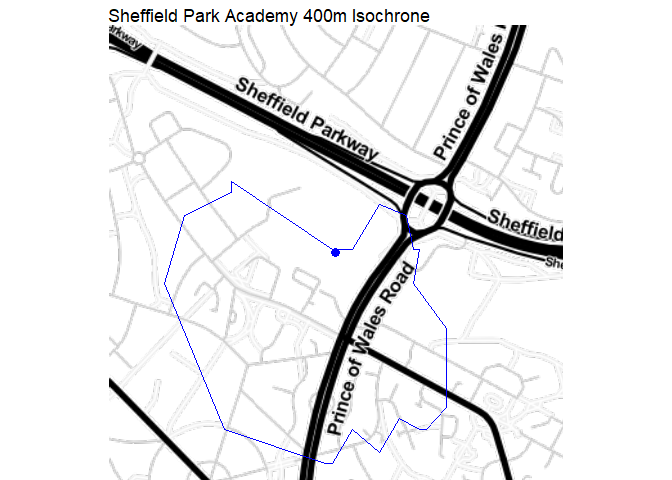
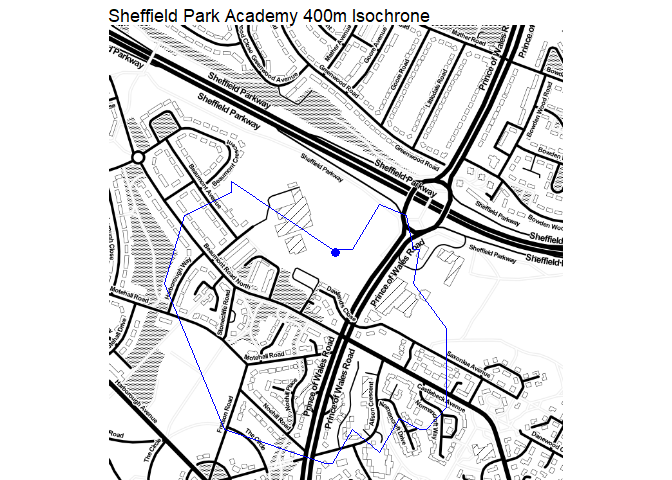
more detailed basemap

Changed region(s): [[0.1562, 0.0312, 0.8438, 1.0], [0.1562, 0.9688, 0.1875, 1.0]]

diff --git a/index.md b/index.md
@@ -53,8 +53,9 @@ used below to get the data from the Council’s web GIS.
 
 ``` r
 # URL for secondary schools from the Council's Portal (without a token!)
-secondary_schools_url  <- str_c("https://sheffieldcitycouncil.cloud.esriuk.com",
-                               "/server/rest/services/AGOL/Education/FeatureServer/3")
+secondary_schools_url  <- str_c(
+  "https://sheffieldcitycouncil.cloud.esriuk.com",
+  "/server/rest/services/AGOL/Education/FeatureServer/3")
 
 # Get secondary schools as simple features with WSG84 coordinates
 sf_secondary_schools <- arc.open(secondary_schools_url) %>% 
@@ -63,9 +64,9 @@ sf_secondary_schools <- arc.open(secondary_schools_url) %>%
   st_transform(crs = 4326)
 
 # URL for the city boundary from the Council's AGOL Open Data
-city_boundary_url  <- str_c("https://utility.arcgis.com/usrsvcs/servers/",
-                            "4cdfd020c6f54581a3065c734535adab/rest/services/",
-                            "AGOL/OpenData/MapServer/11")
+city_boundary_url  <- str_c(
+  "https://utility.arcgis.com/usrsvcs/servers/4cdfd020c6f54581a3065c734535adab",
+  "/rest/services/AGOL/OpenData/MapServer/11")
 
 # Get the city boundary as a simple feature with WSG84 coordinates 
 sf_city_boundary <- arc.open(city_boundary_url) %>% 
@@ -106,7 +107,7 @@ park_bbox <- st_buffer(sf_park, 500) %>%
   as.numeric()
 
 # Get a basemap
-park_basemap <- get_stamenmap(bbox = park_bbox, zoom = 15, maptype = "toner-hybrid")
+park_basemap <- get_stamenmap(bbox = park_bbox, zoom = 16, maptype = "toner")
 
 # Plot
 ggmap(park_basemap) +
@@ -162,7 +163,7 @@ Focusing on the isochrone for our example, Sheffield Park Academy:
 sf_park_isochrone <- filter(sf_isochrones, facilityid == 28)
 
 # Plot
-ggmap(park_basemap) +
+ggmap(park_basemap, extent = "device") +
   geom_sf(data = sf_park_isochrone, mapping = aes(),
           colour = "blue", fill = NA, inherit.aes = FALSE) +
   geom_sf(data = sf_park, mapping = aes(),
@@ -175,7 +176,7 @@ ggmap(park_basemap) +
 
 The roundabout on the Prince of Wales Road has a walkway that goes
 underneath it but above the Parkway. The AGOL location service hasn’t
-included this walkway so the isochrone stops incorrectly short of the
+included this walkway, so the isochrone stops incorrectly short of the
 Parkway.
 
 ## openrouteservice & R
